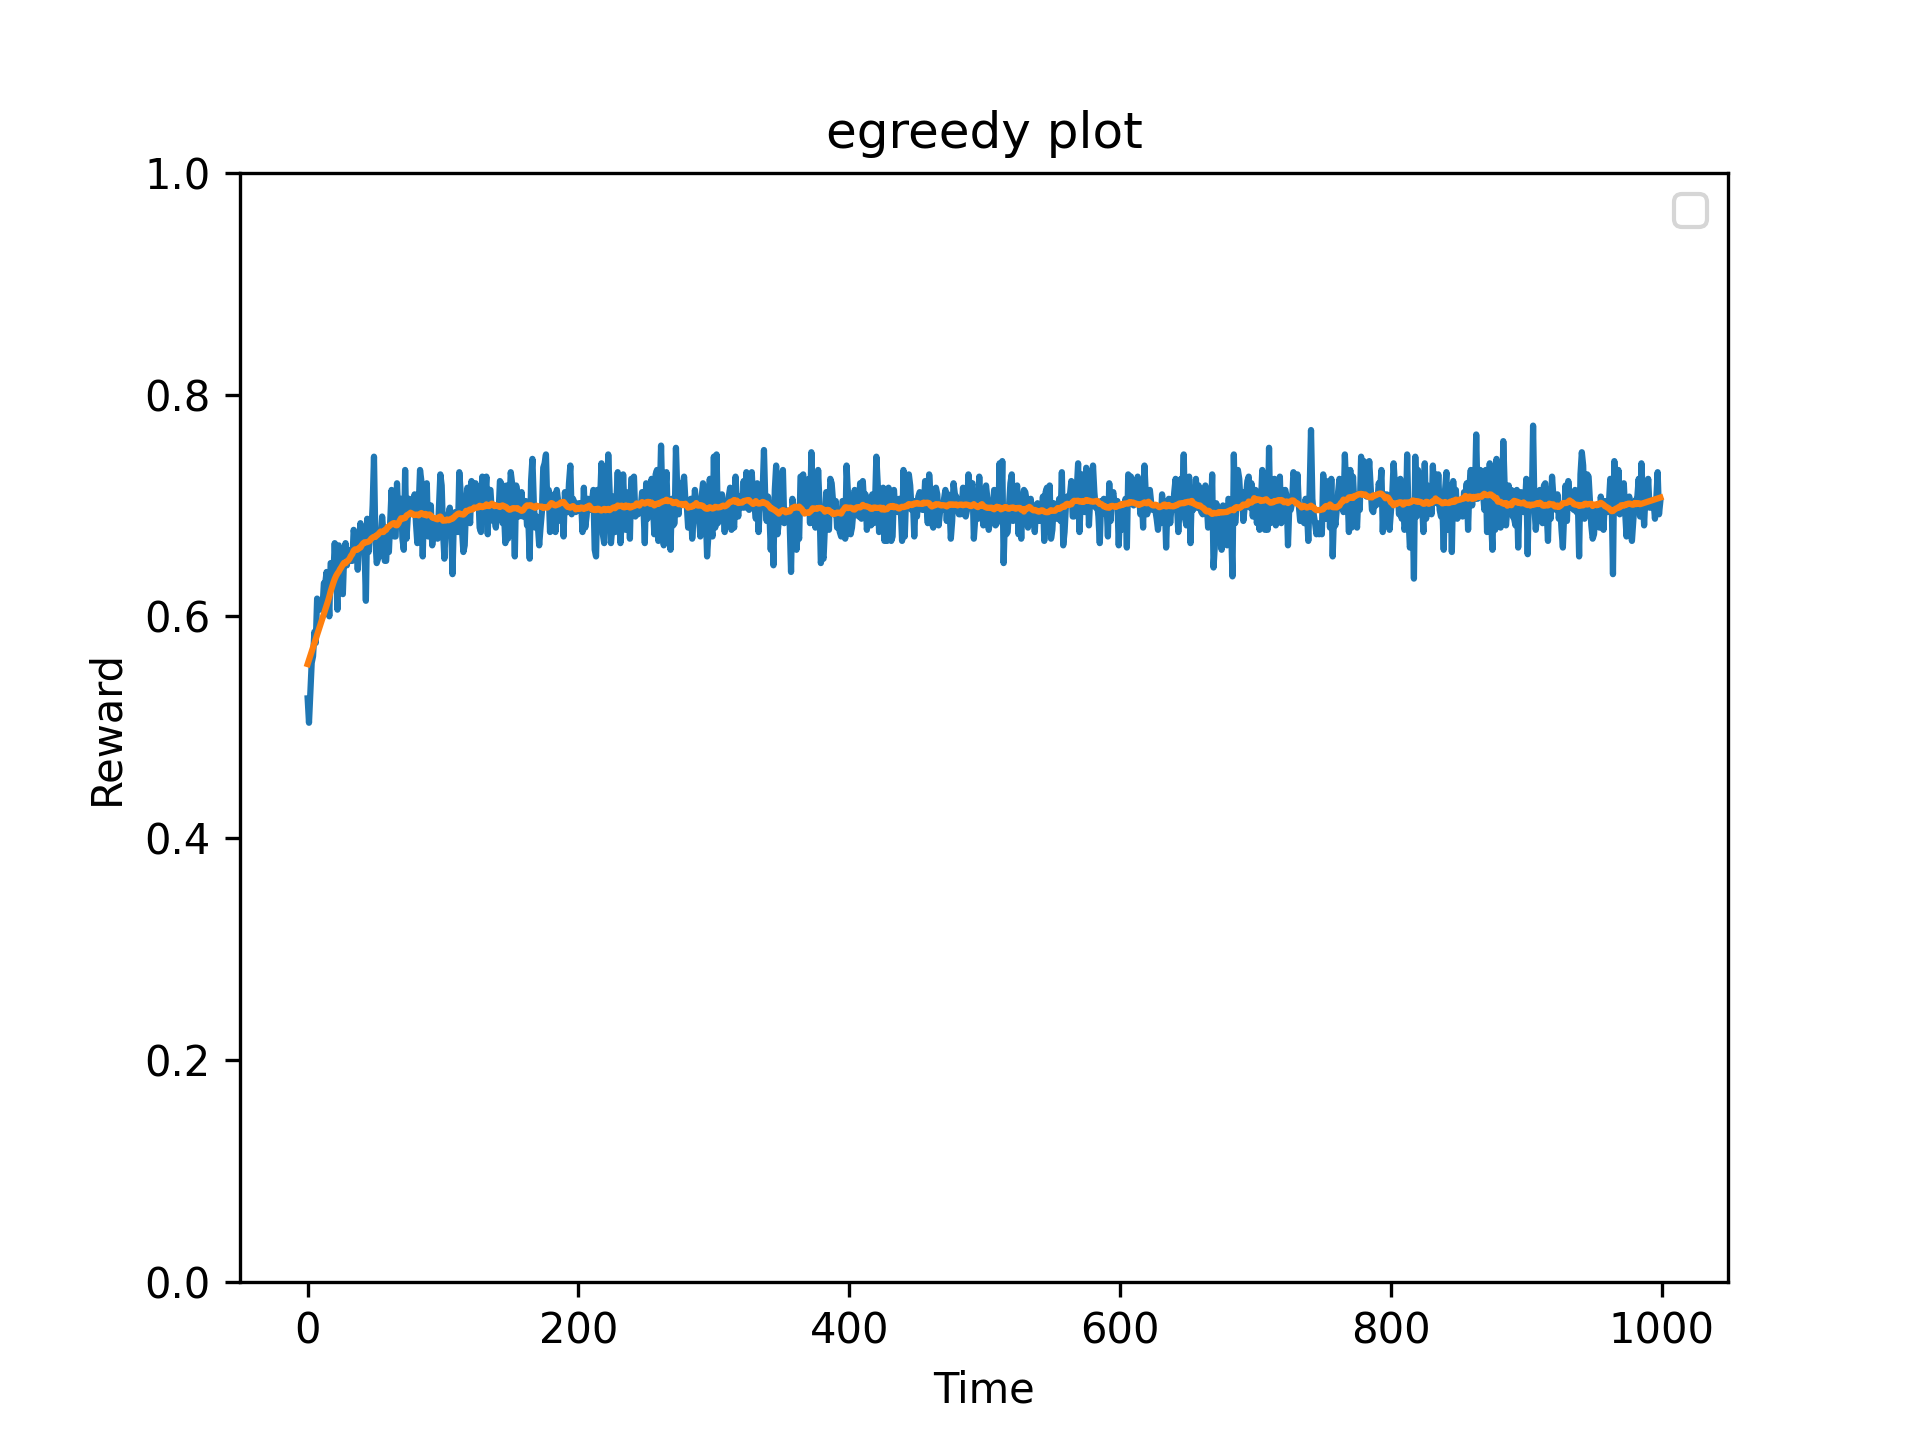
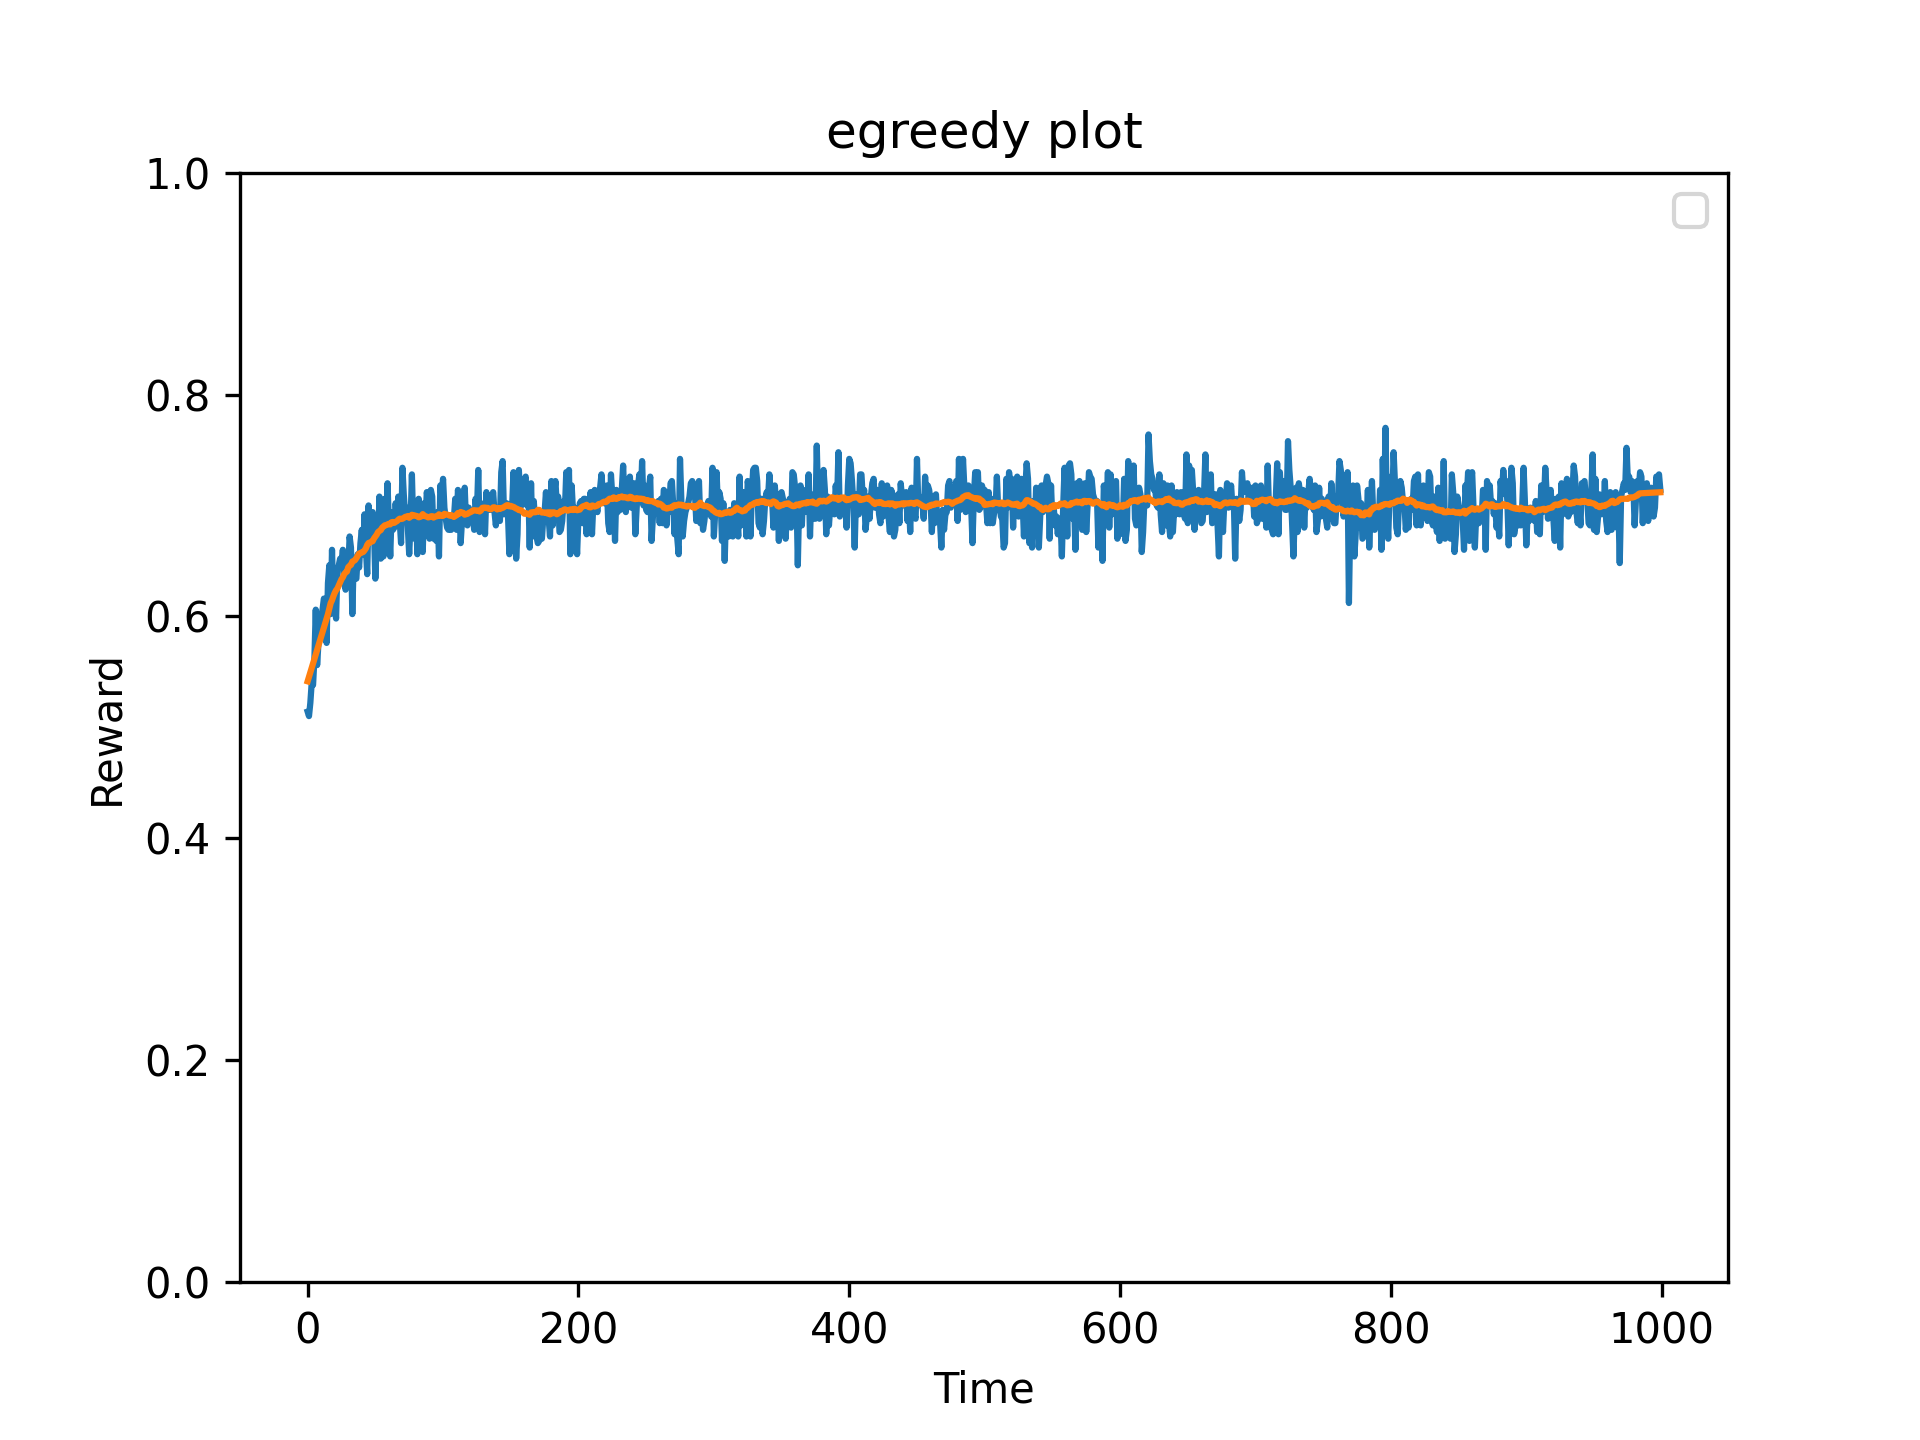
Added plot for ucb

Changed region(s): [[0.1562, 0.2812, 0.875, 0.4688]]

diff --git a/Assignment1/.ipynb_checkpoints/BanditExperiment-checkpoint.py b/Assignment1/.ipynb_checkpoints/BanditExperiment-checkpoint.py
@@ -34,7 +34,14 @@ def run_repetitions(n_actions, n_timesteps, n_repetitions, smoothing_window, pol
                 avg_r_per_timestep[timestep] += (r - avg_r_per_timestep[timestep])/(rep+1)
                 pi.update(a,r) # update policy
     elif policy == 'ucb':
-        pass
+        for rep in range(n_repetitions):
+            env = BanditEnvironment(n_actions=n_actions) # Initialize environment    
+            pi =UCBPolicy(n_actions=n_actions) # Initialize policy
+            for timestep in range(n_timesteps):
+                a = pi.select_action(c=0.1, t=timestep) # select action
+                r = env.act(a) # sample reward
+                avg_r_per_timestep[timestep] += (r - avg_r_per_timestep[timestep])/(rep+1)
+                pi.update(a,r) # update policy
     else:
         raise Exception("Policy error, please pass one of the following to the policy argument: 'egreedy', 'oi' or 'ucb' ") 
     return avg_r_per_timestep
@@ -67,7 +74,15 @@ def experiment(n_actions, n_timesteps, n_repetitions, smoothing_window):
     
     
     # Assignment 3: UCB
-    run_repetitions(n_actions, n_timesteps, n_repetitions, smoothing_window, policy='ucb')
+    avg_rewards_ucb = run_repetitions(n_actions, n_timesteps, n_repetitions, smoothing_window, policy='ucb')
+    
+    egreedy_plot = LearningCurvePlot(title='UCB plot')
+    egreedy_plot.add_curve(avg_rewards_ucb)
+    
+    smoothed_line = smooth(y=avg_rewards_ucb, window=smoothing_window)
+    egreedy_plot.add_curve(smoothed_line)
+
+    egreedy_plot.save(name='ucb.png')
     
     # Assignment 4: Comparison
 

diff --git a/Assignment1/BanditExperiment.py b/Assignment1/BanditExperiment.py
@@ -34,7 +34,14 @@ def run_repetitions(n_actions, n_timesteps, n_repetitions, smoothing_window, pol
                 avg_r_per_timestep[timestep] += (r - avg_r_per_timestep[timestep])/(rep+1)
                 pi.update(a,r) # update policy
     elif policy == 'ucb':
-        pass
+        for rep in range(n_repetitions):
+            env = BanditEnvironment(n_actions=n_actions) # Initialize environment    
+            pi =UCBPolicy(n_actions=n_actions) # Initialize policy
+            for timestep in range(n_timesteps):
+                a = pi.select_action(c=0.1, t=timestep) # select action
+                r = env.act(a) # sample reward
+                avg_r_per_timestep[timestep] += (r - avg_r_per_timestep[timestep])/(rep+1)
+                pi.update(a,r) # update policy
     else:
         raise Exception("Policy error, please pass one of the following to the policy argument: 'egreedy', 'oi' or 'ucb' ") 
     return avg_r_per_timestep
@@ -67,7 +74,15 @@ def experiment(n_actions, n_timesteps, n_repetitions, smoothing_window):
     
     
     # Assignment 3: UCB
-    run_repetitions(n_actions, n_timesteps, n_repetitions, smoothing_window, policy='ucb')
+    avg_rewards_ucb = run_repetitions(n_actions, n_timesteps, n_repetitions, smoothing_window, policy='ucb')
+    
+    egreedy_plot = LearningCurvePlot(title='UCB plot')
+    egreedy_plot.add_curve(avg_rewards_ucb)
+    
+    smoothed_line = smooth(y=avg_rewards_ucb, window=smoothing_window)
+    egreedy_plot.add_curve(smoothed_line)
+
+    egreedy_plot.save(name='ucb.png')
     
     # Assignment 4: Comparison
 

diff --git a/Assignment1/.ipynb_checkpoints/BanditPolicies-checkpoint.py b/Assignment1/.ipynb_checkpoints/BanditPolicies-checkpoint.py
@@ -48,16 +48,16 @@ class UCBPolicy:
 
     def __init__(self, n_actions=10):
         self.n_actions = n_actions
-        # TO DO: Add own code
+        self.q_table = np.zeros(n_actions)
+        self.counts = np.zeros(n_actions)
         pass
     
     def select_action(self, c, t):
-        a = np.random.randint(0,self.n_actions) # Replace this with correct action selection
-        return a
+        return np.argmax(self.q_table + c * (np.sqrt(np.log(t)/self.q_table)))
         
     def update(self,a,r):
-        # TO DO: Add own code
-        pass
+        self.counts[a] += 1
+        self.q_table[a] += (1 / self.counts[a]) * (r - self.q_table[a])
     
 def test():
     n_actions = 10

diff --git a/Assignment1/BanditPolicies.py b/Assignment1/BanditPolicies.py
@@ -48,16 +48,16 @@ class UCBPolicy:
 
     def __init__(self, n_actions=10):
         self.n_actions = n_actions
-        # TO DO: Add own code
+        self.q_table = np.zeros(n_actions)
+        self.counts = np.zeros(n_actions)
         pass
     
     def select_action(self, c, t):
-        a = np.random.randint(0,self.n_actions) # Replace this with correct action selection
-        return a
+        return np.argmax(self.q_table + c * (np.sqrt(np.log(t)/self.q_table)))
         
     def update(self,a,r):
-        # TO DO: Add own code
-        pass
+        self.counts[a] += 1
+        self.q_table[a] += (1 / self.counts[a]) * (r - self.q_table[a])
     
 def test():
     n_actions = 10
